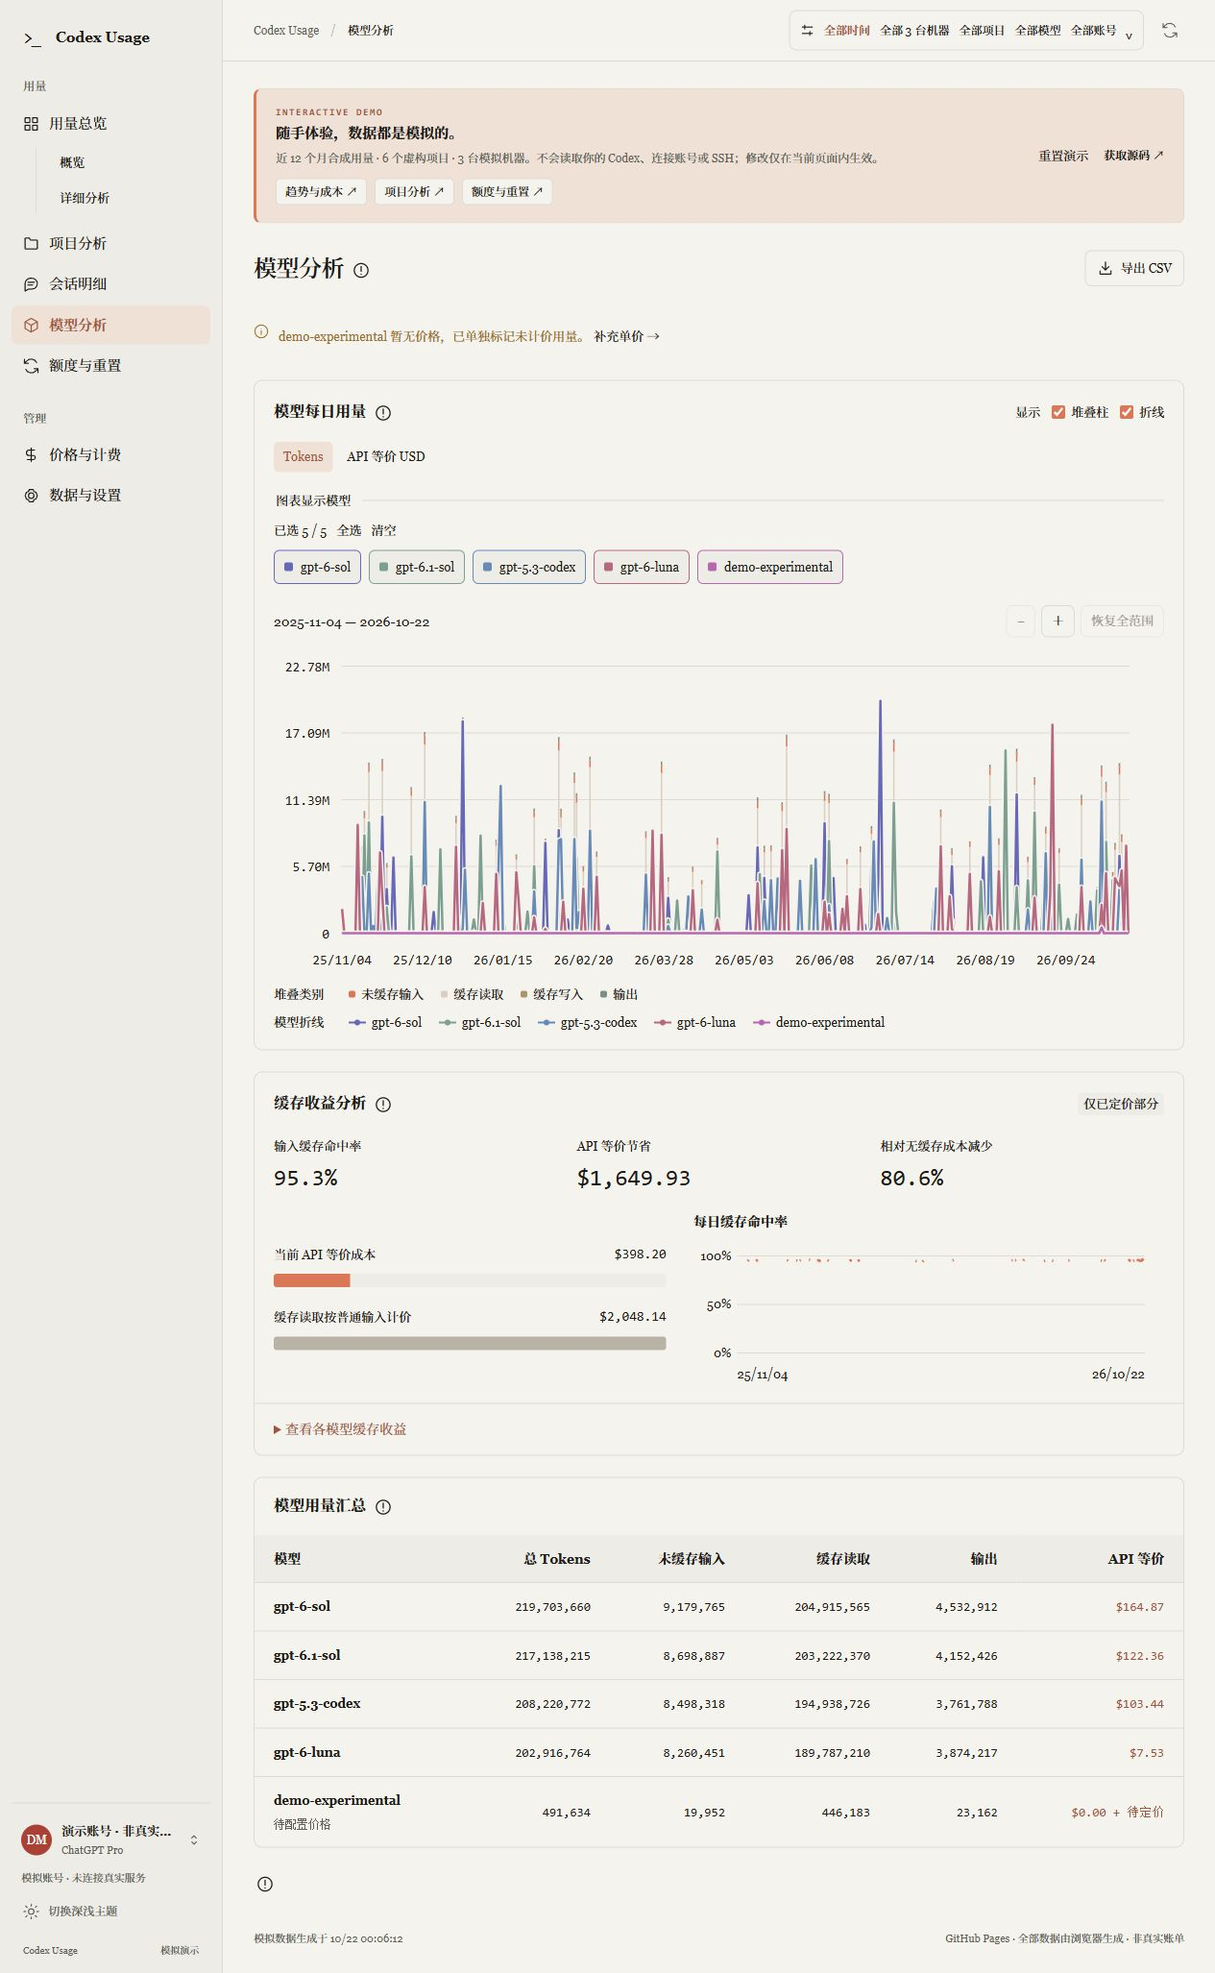
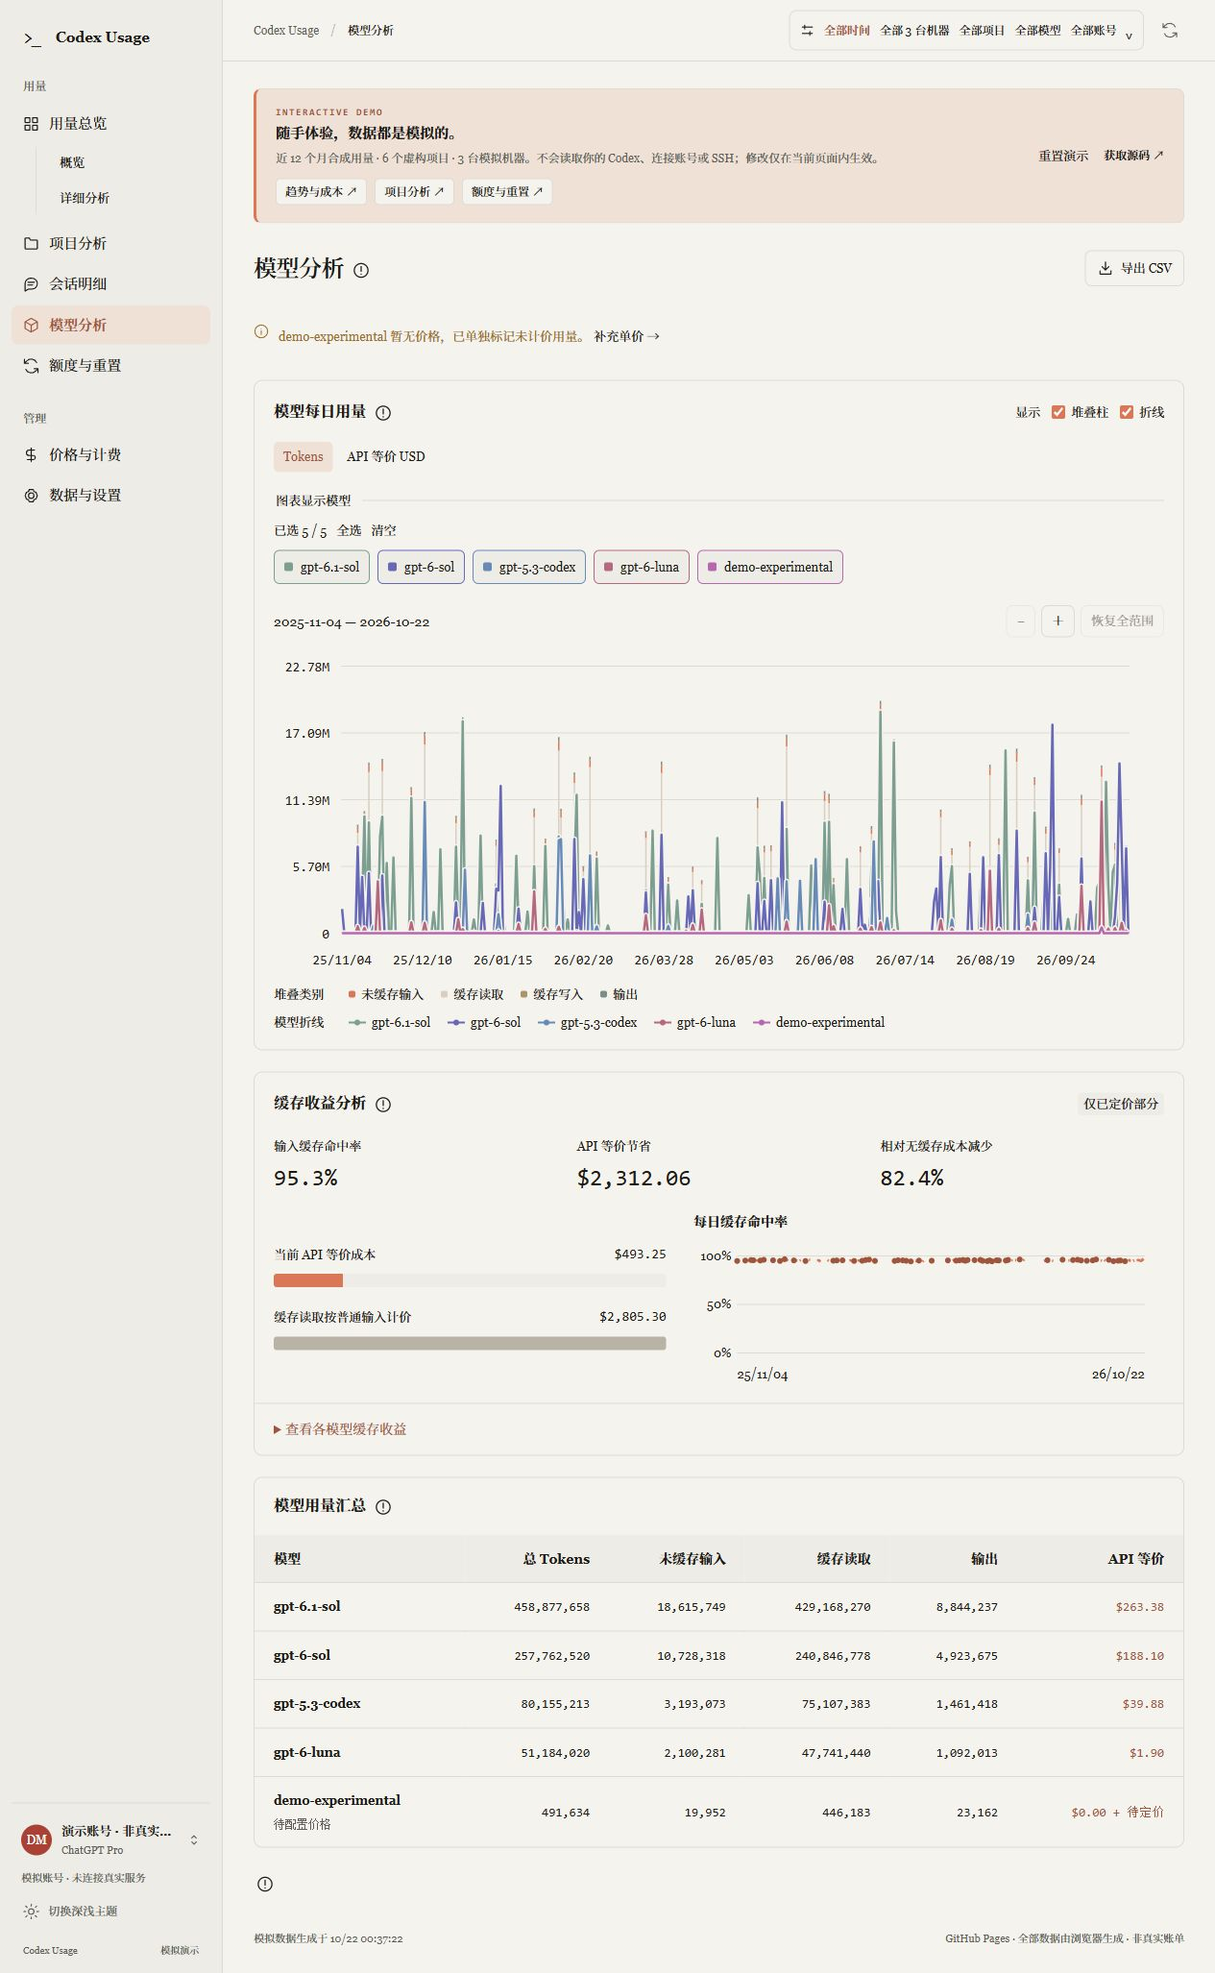
Reconcile demo filters, exports and timezone boundaries

diff --git a/demo/demo-data.js b/demo/demo-data.js
@@ -11,6 +11,23 @@ const DemoData = (() => {
     if(!formatters.has(zone))formatters.set(zone,new Intl.DateTimeFormat('en-CA',{timeZone:zone,year:'numeric',month:'2-digit',day:'2-digit'}));
     return formatters.get(zone).format(new Date(value));
   };
+  const validDate=value=>/^\d{4}-\d{2}-\d{2}$/.test(value)&&Number.isFinite(Date.parse(value))&&iso(Date.parse(value)).slice(0,10)===value;
+  function wallClock(value,zone){
+    const key='clock:'+zone;
+    if(!formatters.has(key))formatters.set(key,new Intl.DateTimeFormat('en-GB',{timeZone:zone,
+      year:'numeric',month:'2-digit',day:'2-digit',hour:'2-digit',minute:'2-digit',second:'2-digit',hourCycle:'h23'}));
+    const p=Object.fromEntries(formatters.get(key).formatToParts(new Date(value)).map(p=>[p.type,p.value]));
+    return `${p.year}-${p.month}-${p.day}T${p.hour}:${p.minute}:${p.second}.${iso(value).slice(20,23)}`;
+  }
+  // Resolve local calendar boundaries independently of the visitor's OS timezone.
+  // At DST transitions use the first repeated time, or advance through a missing time.
+  function instant(day,time,zone){
+    const local=day+'T'+time,wanted=Date.parse(local+'Z');
+    const offsets=[-DAY,0,DAY].map(shift=>Date.parse(wallClock(wanted+shift,zone)+'Z')-(wanted+shift));
+    const candidates=[...new Set(offsets)].map(offset=>wanted-offset);
+    const matches=candidates.filter(at=>wallClock(at,zone)===local);
+    return matches.length?Math.min(...matches):Math.max(...candidates);
+  }
   function create(catalog, now=Date.now()) {
     let seed=20261021;
     const random=()=>{seed=(Math.imul(seed,1664525)+1013904223)>>>0;return seed/4294967296;};
@@ -40,7 +57,10 @@ const DemoData = (() => {
       for(let s=0;s<count;s++){
         const pick=random(),index=s===0&&ago>=1&&ago<=6?ago-1:weights.findIndex(w=>pick<w);
         const p=projects[index];
-        const model=models[Math.floor(random()*models.length)];
+        // Main implementation, service work and lightweight documentation use different mixes.
+        const modelWeights=[[.62,.87,.90,1],[.35,.85,.90,1],[.30,.40,.90,1],
+          [.15,.30,.95,1],[.25,.45,.95,1],[.65,.75,.80,1]][index];
+        const modelPick=random(),model=models[modelWeights.findIndex(w=>modelPick<w)];
         const session=`demo-${dayIn(base-ago*DAY,'Asia/Shanghai')}-${s}`;
         const turns=5+Math.floor(random()*14),intensity=.35+random()*1.6;
         const start=base-ago*DAY+([9,11,14,16][s]+random()*.5)*3600000;
@@ -52,7 +72,8 @@ const DemoData = (() => {
           if(at>now)continue;
           events.push({at:iso(at),session,title:tasks[(s+ago)%tasks.length]+' · '+p[1],
             project:p[0],project_name:p[1],project_path:'/demo/projects/'+p[0],source:p[2],source_name:p[3],
-            account:ago%7===0?'demo-team':'demo-personal',model:ago===12&&s===0?'demo-experimental':model,
+            account:ago%7===0?'demo-team':'demo-personal',
+            model:ago===12&&s===0?'demo-experimental':s===1&&ago%3===0&&turn>=turns-2?'gpt-6-luna':model,
             input,uncached:input-cached-write,cached,write,output,reasoning:Math.floor(output*.28),total:input+output,
             context_input:input});
         }
@@ -91,12 +112,14 @@ const DemoData = (() => {
       return [...groups].map(([k,values])=>({...sum(values),...details(k,values)}));
     }
     function report(query={}){
-      const zone=config.timezone,today=dayIn(now,zone),grain=query.grain||'day';
+      const zone=query.timezone||config.timezone,today=dayIn(now,zone),grain=query.grain||'day';
       if(!['day','week','month'].includes(grain))throw new Error('无效的统计粒度');
       const end=query.until||today;
-      const available=events.filter(e=>!config.usage_since||dayIn(e.at,zone)>=config.usage_since);
-      const start=[query.since||dayIn(available[0]?.at||now,zone),config.usage_since||''].sort().at(-1);
-      if(start>end)throw new Error('开始日期不能晚于结束日期');
+      if(!validDate(end)||(query.since&&!validDate(query.since)))throw new Error('日期格式无效');
+      if(query.since&&query.since>end)throw new Error('开始日期不能晚于结束日期');
+      const cutoff=config.usage_since?instant(config.usage_since,'00:00:00.000',config.timezone):null;
+      const available=events.filter(e=>cutoff===null||Date.parse(e.at)>=cutoff);
+      const start=[query.since||dayIn(available[0]?.at||now,zone),cutoff===null?'':dayIn(cutoff,zone)].sort().at(-1);
       if((Date.parse(end)-Date.parse(start))/DAY>3660)throw new Error('请缩短日期范围');
       const dimension=available.filter(e=>['project','model','session','account','source'].every(k=>!query[k]||e[k]===query[k])).map(priced);
       const rows=dimension.filter(e=>{const d=dayIn(e.at,zone);return d>=start&&d<=end;});
@@ -107,17 +130,28 @@ const DemoData = (() => {
       const sort=rows=>rows.sort((a,b)=>b.total-a.total);
       const monday=offset(today,-((new Date(today+'T12:00:00Z').getUTCDay()+6)%7));
       const select=(since,until=today)=>sum(dimension.filter(e=>{const d=dayIn(e.at,zone);return since<=d&&d<=until;}));
-      const span=query.period==='week'?7:Math.round((Date.parse(end)-Date.parse(start))/DAY)+1;
-      const prevStart=offset(start,-span),prevEnd=offset(end,-span),canCompare=prevStart>=dayIn(available[0]?.at||now,zone);
-      const prev=dimension.filter(e=>{const d=dayIn(e.at,zone);return d>=prevStart&&d<=prevEnd&&(end!==today||d!==prevEnd||Date.parse(e.at)<now-span*DAY);});
-      const current=rows.filter(e=>end!==today||Date.parse(e.at)<now);
+      const comparisonEnd=end<today?end:today,partial=comparisonEnd===today;
+      const span=query.period==='week'?7:Math.round((Date.parse(comparisonEnd)-Date.parse(start))/DAY)+1;
+      const begin=instant(start,'00:00:00.000',zone);
+      const stop=partial?now:instant(offset(comparisonEnd,1),'00:00:00.000',zone);
+      const prevStart=offset(start,-span);
+      const previousBegin=instant(prevStart,'00:00:00.000',zone);
+      const previousStop=instant(offset(wallClock(stop,zone).slice(0,10),-span),wallClock(stop,zone).slice(11),zone);
+      const canCompare=start<=comparisonEnd&&available.length>0&&prevStart>=dayIn(available[0].at,zone)&&(cutoff===null||previousBegin>=cutoff);
+      const inWindow=(e,a,b)=>Date.parse(e.at)>=a&&Date.parse(e.at)<b;
+      const prev=dimension.filter(e=>inWindow(e,previousBegin,previousStop));
+      const current=dimension.filter(e=>inWindow(e,begin,stop));
       const attribution=(key,name)=>{
         const ids=new Set([...prev,...current].map(e=>e[key]));
         return [...ids].map(id=>{const a=prev.filter(e=>e[key]===id),b=current.filter(e=>e[key]===id),x=sum(a),y=sum(b),sample=b[0]||a[0];
           return {id,name:sample[name],source_name:key==='project'?sample.source_name:'',previous_total:x.total,current_total:y.total,
             previous_cost:x.known_cost,current_cost:y.known_cost,delta_total:y.total-x.total,delta_cost:y.known_cost-x.known_cost};});
       };
-      const midnight=day=>day+'T00:00:00';
+      const comparison=start>comparisonEnd?{available:false,reason:'当前范围尚未开始，没有可比较的用量。'}:{
+        available:canCompare,reason:canCompare?null:'模拟数据未覆盖完整上期，请选择较近的日期。',current:sum(current),previous:canCompare?sum(prev):null,
+        current_range:{since:iso(begin),until:iso(stop)},previous_range:{since:iso(previousBegin),until:iso(previousStop)},
+        basis:query.period==='week'?'上周同期':'上一等长时段',partial_day:partial,
+        projects:canCompare?attribution('project','project_name'):[],models:canCompare?attribution('model','model'):[]};
       return {summary:sum(rows),today:select(today),week:select(monday),month:select(today.slice(0,7)+'-01'),
         timeline:[...timeline].map(([date,es])=>({date,...sum(es)})),
         model_timeline:[...days].map(([date,es])=>({date,models:grouped(es,e=>e.model,name=>({name}))})),
@@ -127,12 +161,10 @@ const DemoData = (() => {
         models:sort(grouped(rows,e=>e.model,name=>({name}))),
         options:{projects:projects.map(([id,name,source])=>({id,name,source,path:'/demo/projects/'+id})),models:[...new Set(available.map(e=>e.model))].sort(),
           accounts:[...new Set(available.map(e=>e.account))].sort(),sources:[{id:'local',name:'演示笔记本'},...config.remotes.map(r=>({id:'ssh:'+r.id,name:r.name}))]},
-        comparison:{available:canCompare,reason:canCompare?null:'模拟数据未覆盖完整上期，请选择较近的日期。',current:sum(current),previous:canCompare?sum(prev):null,
-          current_range:{since:midnight(start),until:end===today?iso(now):midnight(offset(end,1))},previous_range:{since:midnight(prevStart),until:end===today?iso(now-span*DAY):midnight(offset(prevEnd,1))},
-          basis:query.period==='week'?'上周同期':'上一等长时段',partial_day:end===today,projects:canCompare?attribution('project','project_name'):[],models:canCompare?attribution('model','model'):[]},
+        comparison,
         coverage:{sessions:new Set(events.map(e=>e.session)).size,metadata_sessions:new Set(events.map(e=>e.session)).size,files:new Set(events.map(e=>e.session)).size,
           missing_sessions:0,retained_files:0,scan_ms:0,warnings:{},issues:[]},limits:[],missing_projects:[],scanned_at:iso(now),timezone:zone,
-        usage_start:config.usage_since?{date:config.usage_since,timezone:zone}:null,range:{since:start,until:end,today,grain},
+        usage_start:config.usage_since?{date:config.usage_since,timezone:config.timezone,at:iso(cutoff)}:null,range:{since:start,until:end,today,grain},
         pricing:{...catalog,models:{...catalog.models,...config.prices},overrides:Object.keys(config.prices),unknown_models:[...new Set(rows.filter(e=>e.cost==null).map(e=>e.model))]},
         remotes:remotes(),collector:{running:false,last_scan:iso(now),scan_interval_seconds:30}};
     }
@@ -186,21 +218,25 @@ const DemoData = (() => {
         remaining_percent:100-samples.at(-1).used_percent,resets_at:deadline,window_minutes:10080},
       {id:'codex:secondary',bucket:'codex',label:'5 小时额度',used_percent:28,remaining_percent:72,resets_at:quotaNow+7200,window_minutes:300}],
       reset_credits:{available_count:2,details:[{expires_at:quotaNow+15*86400},{expires_at:quotaNow+28*86400}]},reset_events:resetEvents,
-      fetched_at:iso(now),busy:false,stale:false,history_scope:'demo-account',history_available:true,
+      fetched_at:iso(now),busy:false,stale:false,history_scope:'demo-account:'+config.timezone,history_available:true,
       collector:{running:false,interval_seconds:60,failures:0,last_success:iso(now)},alerts:[{id:'demo-alert',at:resetEvents.at(-1).at-3600,active:false,
         acknowledged:acknowledged.has('demo-alert'),message:'模拟历史提醒：上一使用段剩余额度低于 20%。'}]};}
     function quotaRange(){
-      const ticks=[];for(let at=begin;at<=end;at+=86400)ticks.push({at,date:dayIn(at*1000,config.timezone)});
-      return {custom_range:true,history_scope:'demo-account',timezone:config.timezone,grain:'auto',
-        range:{since:begin,until:end,since_date:ticks[0].date,until_date:ticks.at(-2).date},ticks,
+      const ticks=[],firstDay=dayIn(begin*1000,config.timezone),lastDay=offset(dayIn(now,config.timezone),1);
+      for(let date=firstDay;date<=lastDay;date=offset(date,1))ticks.push({at:instant(date,'00:00:00.000',config.timezone)/1000,date});
+      return {custom_range:true,history_scope:'demo-account:'+config.timezone,timezone:config.timezone,grain:'auto',
+        range:{since:ticks[0].at,until:ticks.at(-1).at,since_date:ticks[0].date,until_date:ticks.at(-2).date},ticks,
         groups:[{id:'demo-week',label:'每周额度（模拟）',plan:'pro',window:'codex:primary',sample_count:samples.length,segment_count:4,
           samples,references,idle:[],events:resetEvents}]};
     }
     function settings(next){
       if(next){
         new Intl.DateTimeFormat('en',{timeZone:next.timezone});
-        if(next.usage_since&&!/^\d{4}-\d{2}-\d{2}$/.test(next.usage_since))throw new Error('日期格式无效');
-        for(const p of Object.values(next.prices||{}))for(const k of ['input','cached','write','output'])if(!Number.isFinite(p[k])||p[k]<0)throw new Error('价格必须为非负数');
+        if(next.usage_since&&!validDate(next.usage_since))throw new Error('日期格式无效');
+        for(const p of Object.values(next.prices||{})){
+          for(const k of ['input','cached','write','output'])if(!Number.isFinite(p[k])||p[k]<0)throw new Error('价格必须为非负数');
+          if(p.long_context!=null&&(!Number.isFinite(p.long_context)||p.long_context<=0))throw new Error('长上下文阈值必须为正数');
+        }
         for(const k of ['timezone','usage_since','avatar_initials','prices','quota_alerts'])if(k in next)config[k]=structuredClone(next[k]);
       }
       return structuredClone(config);
@@ -210,12 +246,17 @@ const DemoData = (() => {
       if(!['timeline','projects','sessions','models'].includes(dimension))throw new Error('无效的导出维度');
       let rows=r[dimension];
       if(dimension==='sessions'){
+        if(query.sort&&!['total','known_cost','last_at'].includes(query.sort))throw new Error('无效的会话排序');
         const search=(query.search||'').toLowerCase();rows=rows.filter(s=>[s.title,s.id,...s.model_names,...s.project_names].some(v=>v.toLowerCase().includes(search)));
         rows.sort((a,b)=>query.sort==='last_at'?b.last_at.localeCompare(a.last_at):(b[query.sort||'total']||0)-(a[query.sort||'total']||0));
       }
-      const keys=['date','name','title','total','input','cached','write','output','known_cost','unpriced_tokens'];
-      const cell=v=>{let s=String(v??'');if(/^[=+\-@\t\r]/.test(s))s="'"+s;return '"'+s.replaceAll('"','""')+'"';};
-      return '\ufeff'+[['data_type',...keys],...rows.map(r=>['SIMULATED',...keys.map(k=>r[k])])].map(row=>row.map(cell).join(',')).join('\r\n');
+      const identity={timeline:['date'],projects:['name','id','path','source','source_name'],
+        sessions:['title','id','first_at','last_at','model_names','project_names','source_names'],models:['name']}[dimension];
+      const keys=[...identity,...numbers,'cost',...costs,'cache_rate','priced_ratio','unpriced_tokens','unpriced_events','sessions','events'];
+      const meta=['timezone','range_since','range_until','grain','price_basis','price_verified_at','usage_start'];
+      const cell=v=>{let s=Array.isArray(v)?v.join(' / '):String(v??'');if(/^\s*[=+\-@]/.test(s))s="'"+s;return '"'+s.replaceAll('"','""')+'"';};
+      const values=[r.timezone,r.range.since,r.range.until,r.range.grain,'current_standard_api_equivalent',r.pricing.verified_at,r.usage_start?.at||''];
+      return '\ufeff'+[['data_type',...keys,...meta],...rows.map(row=>['SIMULATED',...keys.map(k=>row[k]),...values])].map(row=>row.map(cell).join(',')).join('\r\n');
     }
     return {events,report,settings,quota,quotaRange,remotes,csv,acknowledge:id=>{acknowledged.add(id);return quota();}};
   }

diff --git a/src/codex_usage/static/usage-insights.js b/src/codex_usage/static/usage-insights.js
@@ -110,9 +110,10 @@ const UsageInsights=(()=>{
     const h=148,left=46,right=20,top=15,bottom=116;
     const dateLabel=value=>value?(daily[0]?.date.slice(0,4)===daily.at(-1)?.date.slice(0,4)?value.slice(5):value.slice(2)).replaceAll('-','/'):'';
     const x=i=>left+(daily.length>1?i/(daily.length-1):.5)*(w-left-right),y=rate=>bottom-rate*(bottom-top);
+    const showAllDots=daily.filter(row=>row.input).length<=90;
     let paths=[],path=[];
     daily.forEach((row,i)=>{if(!row.input){if(path.length)paths.push(path.join(' '));path=[];}else path.push(`${path.length?'L':'M'}${x(i)},${y(row.cached/row.input)}`);});if(path.length)paths.push(path.join(' '));
-    return `<svg viewBox="0 0 ${w} ${h}" role="img" aria-label="每日输入缓存命中率；无输入日期断开显示">${[0,.5,1].map(rate=>`<line x1="${left}" x2="${w-right}" y1="${y(rate)}" y2="${y(rate)}" stroke="var(--line)"/><text x="${left-6}" y="${y(rate)+4}" text-anchor="end">${rate*100}%</text>`).join('')}${paths.map(d=>`<path d="${d}" fill="none" stroke="var(--accent)" stroke-width="2.5"/>`).join('')}${daily.filter(row=>row.input).length<=90?daily.map((row,i)=>row.input?`<circle tabindex="0" cx="${x(i)}" cy="${y(row.cached/row.input)}" r="3" fill="var(--accent-ink)" aria-label="${row.date} ${percent(row.cached/row.input)}"><title>${row.date} · ${percent(row.cached/row.input)}</title></circle>`:'').join(''):''}<text x="${left}" y="142">${esc(dateLabel(daily[0]?.date))}</text><text x="${w-right}" y="142" text-anchor="end">${esc(daily.length>1?dateLabel(daily.at(-1)?.date):'')}</text></svg>`;
+    return `<svg viewBox="0 0 ${w} ${h}" role="img" aria-label="每日输入缓存命中率；无输入日期断开显示">${[0,.5,1].map(rate=>`<line x1="${left}" x2="${w-right}" y1="${y(rate)}" y2="${y(rate)}" stroke="var(--line)"/><text x="${left-6}" y="${y(rate)+4}" text-anchor="end">${rate*100}%</text>`).join('')}${paths.map(d=>`<path d="${d}" fill="none" stroke="var(--accent)" stroke-width="2.5"/>`).join('')}${daily.map((row,i)=>row.input&&(showAllDots||(!daily[i-1]?.input&&!daily[i+1]?.input))?`<circle tabindex="0" cx="${x(i)}" cy="${y(row.cached/row.input)}" r="3" fill="var(--accent-ink)" aria-label="${row.date} ${percent(row.cached/row.input)}"><title>${row.date} · ${percent(row.cached/row.input)}</title></circle>`:'').join('')}<text x="${left}" y="142">${esc(dateLabel(daily[0]?.date))}</text><text x="${w-right}" y="142" text-anchor="end">${esc(daily.length>1?dateLabel(daily.at(-1)?.date):'')}</text></svg>`;
   }
   function cachePanel(report) {
     const s=report.summary,baseline=s.known_cost+s.cache_savings,maximum=Math.max(baseline,s.known_cost,0.00001);

diff --git a/demo/demo-bridge.js b/demo/demo-bridge.js
@@ -11,7 +11,12 @@
       let result;
       switch(url.pathname){
         case '/api/data':result=demo.report(query);break;
-        case '/api/settings':result=demo.settings(options.method==='POST'?JSON.parse(options.body):null);break;
+        case '/api/settings':
+          result=demo.settings(options.method==='POST'?JSON.parse(options.body):null);
+          // saveSettings renders the cached account immediately; update its history
+          // scope too, so a timezone change does not wait for the next account poll.
+          if(options.method==='POST'&&typeof accountData!=='undefined')accountData=demo.quota();
+          break;
         case '/api/account':case '/api/account/refresh':result=demo.quota();break;
         case '/api/account/range':result=demo.quotaRange();break;
         case '/api/account/acknowledge':result=demo.acknowledge(query.id);break;
@@ -25,6 +30,10 @@
   };
   document.addEventListener('click',e=>{
     const target=e.target.closest('button');if(!target)return;
+    if(target.id==='refresh'){
+      e.preventDefault();e.stopImmediatePropagation();
+      refreshAccount(true);load(true);return;
+    }
     if(target.id==='export'){
       e.preventDefault();e.stopImmediatePropagation();
       const dimension={overview:'timeline',projects:'projects',sessions:'sessions',models:'models'}[state.view];

diff --git a/src/codex_usage/static/app.js b/src/codex_usage/static/app.js
@@ -351,7 +351,7 @@ function setView(view, tab='summary') {
   if (view === 'projects') { state.project = ''; state.page = 1; }
   state.view=view;if(view==='overview')state.tab=tab;
   updateControls(); syncURL(true); render(); window.scrollTo({top:0,behavior:'instant'});
-  if(view!=='settings' && view!=='quota')load();
+  if(view!=='quota' && (view!=='settings' || !data))load();
 }
 async function showSession(id) {
   sessionDetailController?.abort();
